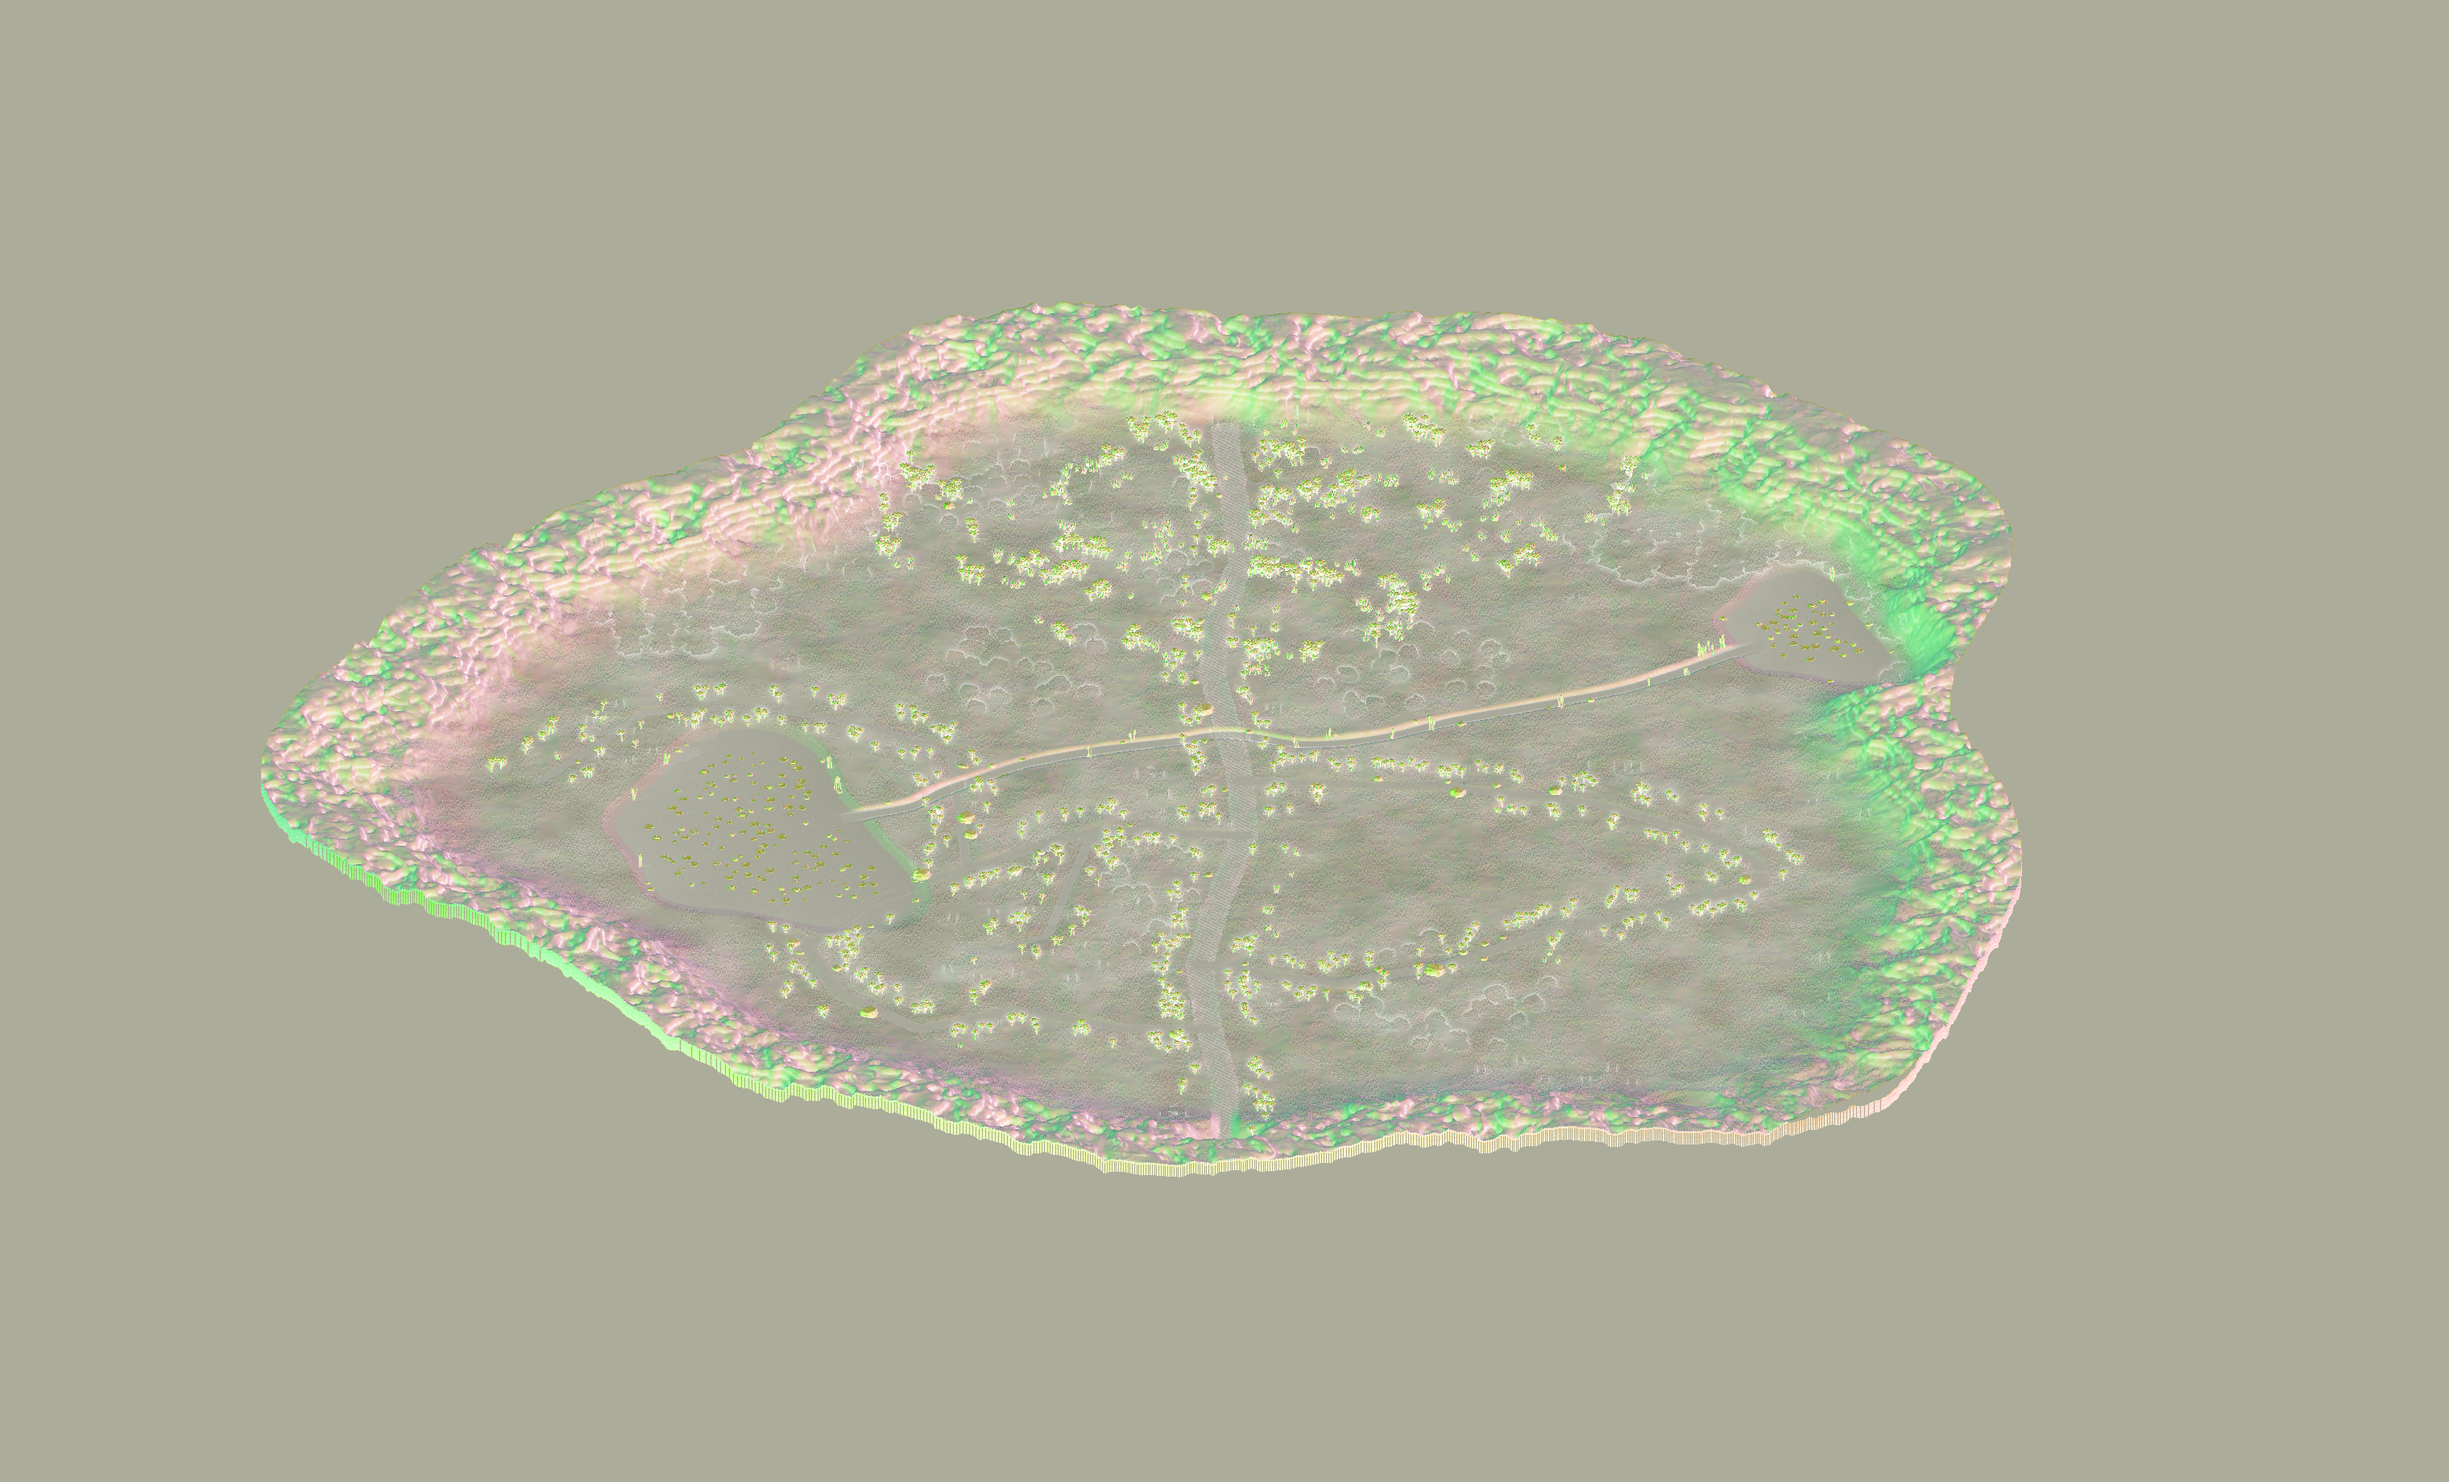
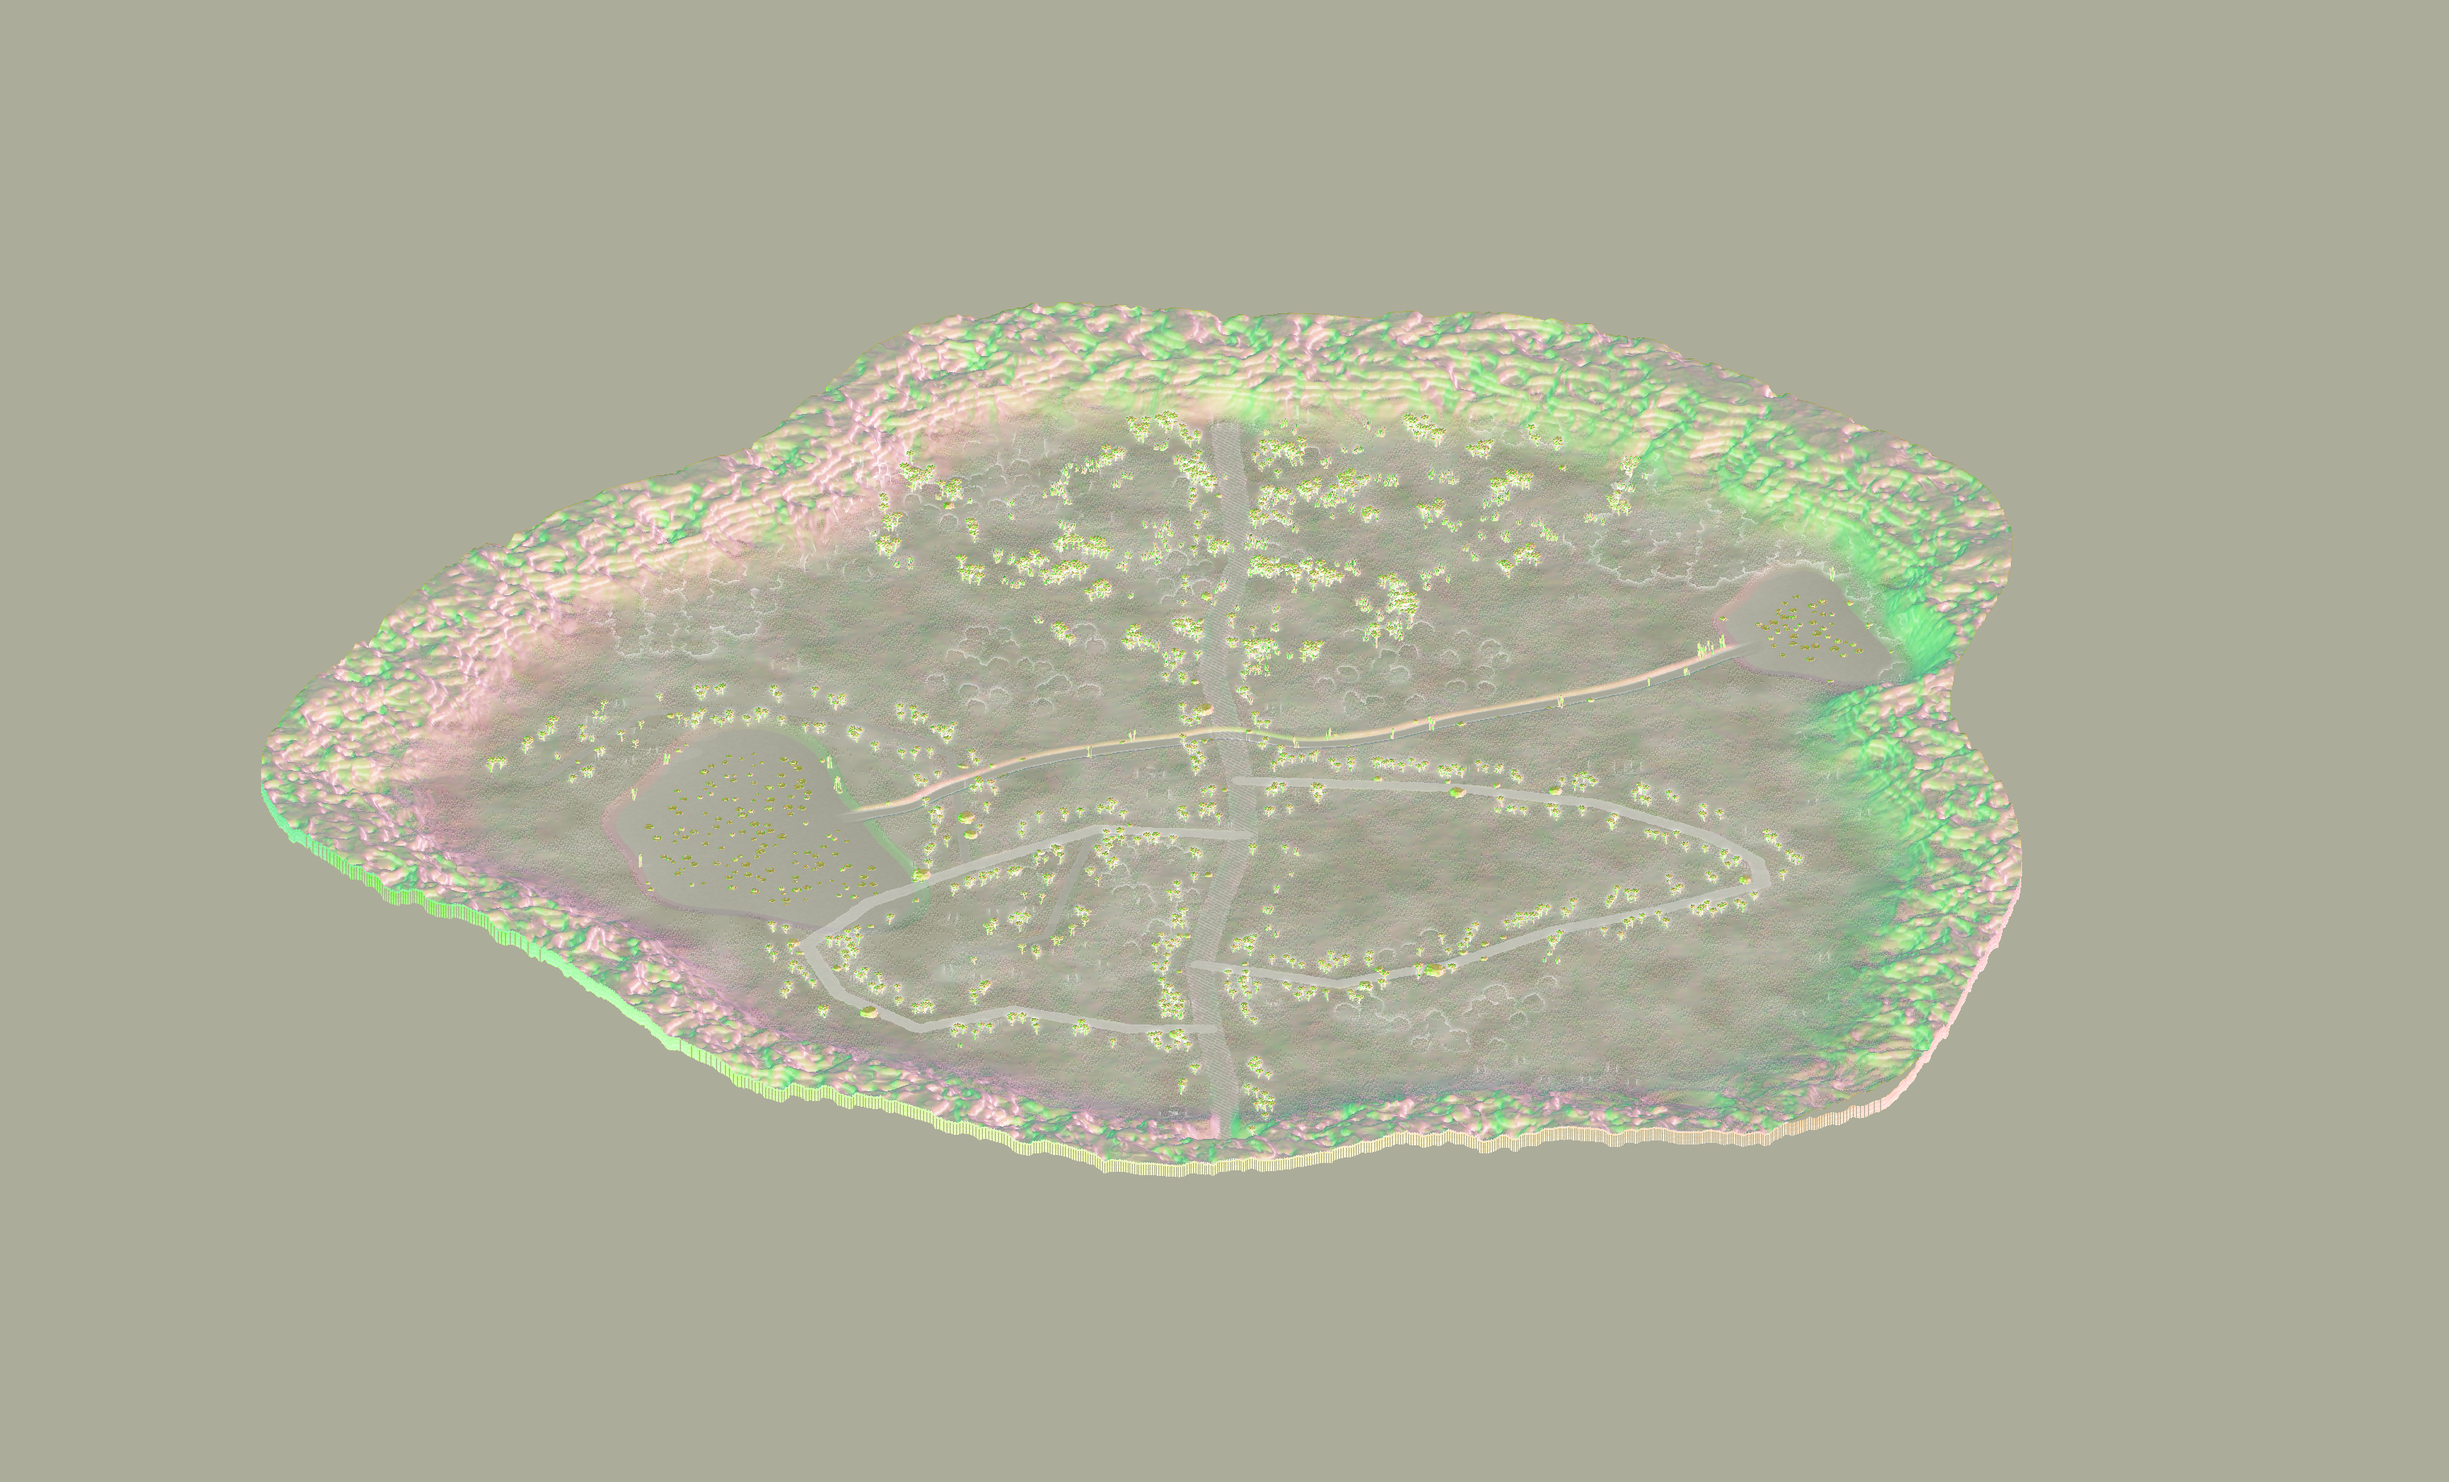
Larkmoor lanes read as earth, not sand
Packed lanes drop onto the earth role (T_PATH ramp index 0 and 1), so
the post shader's light band gives the earth steps from the existing
palette rows. No new palette role. Regenerated the Larkmoor ground
layers from the merged generator.

Claude-Session: https://claude.ai/code/session_01Pmx9dT3qdV6buBzqN7myn4

diff --git a/tools/art/gen_larkmoor.py b/tools/art/gen_larkmoor.py
@@ -1022,6 +1022,11 @@ joint_v = (cu_ < 1.0) & (vn2(FU / 3.0, FV / 3.0, 47) > .45)  # vertical joints: 
 joint_h = cv_ < 1.0                                          # horizontal joints: every row
 mortar = (joint_v | joint_h) & road_m
 lt -= .30 * mortar                                           # a soft drop to the earth step, not a hard grid
+# lanes: packed earth rather than sand. A light drop moves them onto the earth role (T_PATH ramp index 0 and 1), and the
+# post shader's light band then gives the olive earth step in shade and the warm earth step in light (palette rows
+# from render/palettes.gd RAMP). No new palette role. Trails keep their own material.
+lane_m = (mat == T_PATH) & ~road_m
+lt -= .34 * lane_m
 # water points
 isw = wd > .04
 mat = np.where(isw, T_WATER, mat)

diff --git a/changelog.d/larkmoor-earth-lanes.patch.md b/changelog.d/larkmoor-earth-lanes.patch.md
@@ -1,0 +1,1 @@
+Larkmoor's packed lanes now read as earth rather than sand, so they sit apart from the flagstone main road.
